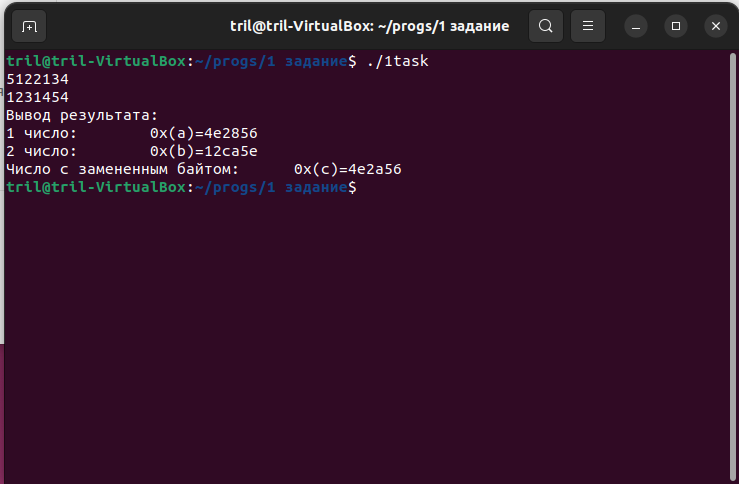
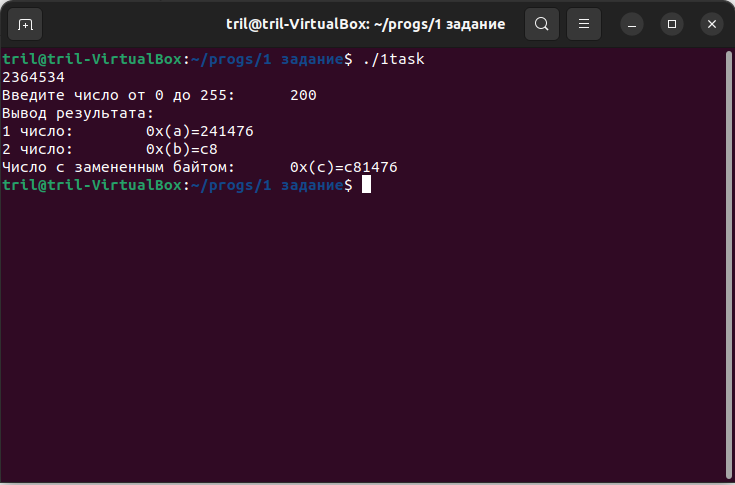
fixed 4 subtask

Changed region(s): [[0.0, 0.0, 1.0, 1.0], [0.3891, 0.186, 0.449, 0.2169], [0.9878, 0.093, 1.0, 0.124]]

diff --git a/1task.c b/1task.c
@@ -1,9 +1,17 @@
 #include "stdio.h"
 int main(){
-	int a, b, c=0;
+	unsigned int a, b, c=0;
 	scanf("%d",&a);
-	scanf("%d",&b);
-	c=(a&0xFFFFF0FF)|(b&0x00000F00);
+	while(1){
+		printf("Введите число от 0 до 255:\t");
+		scanf("%d", &b);
+		if(b>255||b<0){
+			printf("Ошибка\n");
+		}else{
+			break;
+		}
+	}
+	c=(a&0xFF00FFFF)|(b<<16);
 	printf("Вывод результата:\n");
 	printf("1 число:\t0x(a)=%x\n2 число:\t0x(b)=%x\nЧисло с замененным байтом:\t0x(c)=%x\n",a,b,c);
 	return 0;
